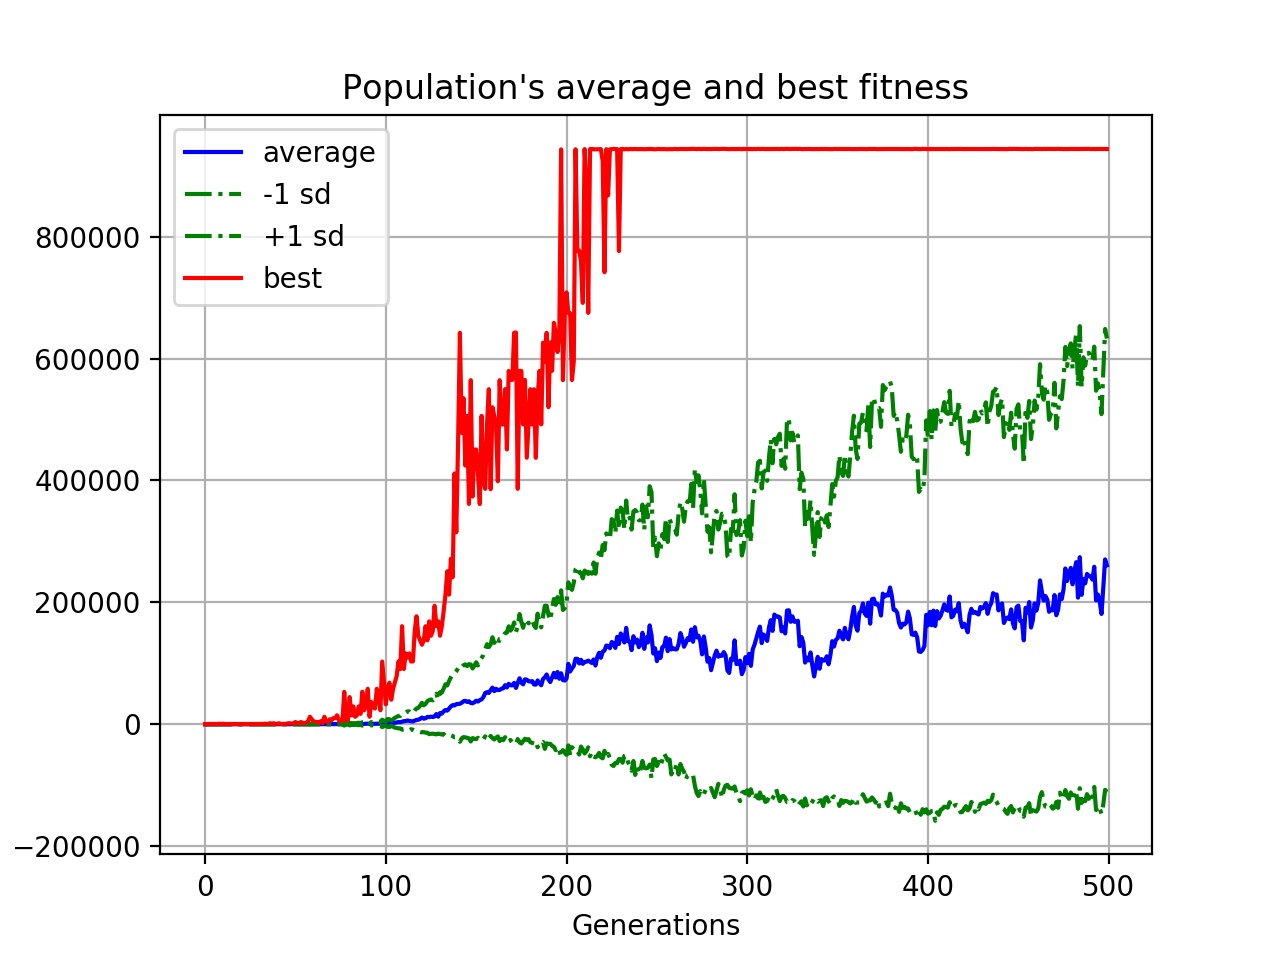
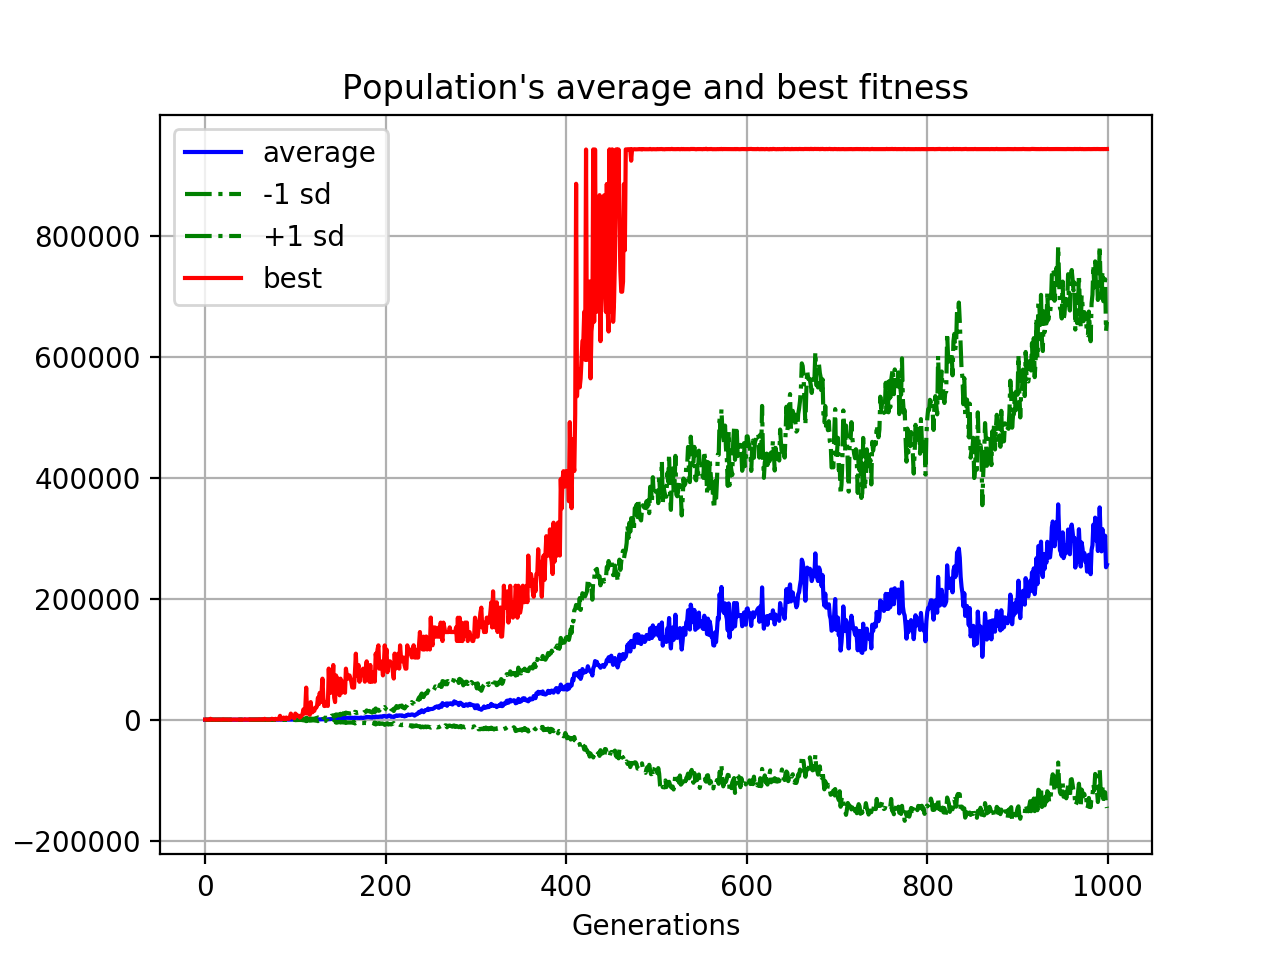
Moved food collision detection to end of loop

diff --git a/game.py b/game.py
@@ -62,7 +62,6 @@ def eval_genomes(genomes,config):
             input[direction] = 1
 
             # TAIL DIRECTION
-            tail_direction = -1
             body_len = len(snake_body)
             (tail_x,tail_y) = snake_body[body_len-1]
             (tail2_x,tail2_y) = snake_body[body_len-2]
@@ -122,21 +121,6 @@ def eval_genomes(genomes,config):
             output = net.activate(input)
             direction = output.index(max([i for i in output]))
 
-            # Spawn Food
-            if snake_body[0] == food:
-                hunger = max_hunger
-                eaten += 1
-                if len(snake_body) == 99:
-                    print("WINNER!!!")
-                    run = False
-                else:
-                    food = (random.randint(0,width/block_size - 1)*block_size,random.randint(0,width/block_size - 1)*block_size)
-                    while snake_body.count(food) > 0:
-                        food = (random.randint(0,width/block_size - 1)*block_size,random.randint(0,width/block_size - 1)*block_size)
-            else:
-                hunger -= 1
-                snake_body.pop() # Remove last block of snake to prepare for update
-
             # Update body
             if direction == 0:
                 snake_body.appendleft((snake_body[0][0],snake_body[0][1] + block_size))
@@ -157,6 +141,22 @@ def eval_genomes(genomes,config):
             if snake_body.count(snake_body[0]) > 1:
                 run = False
 
+            # Check if in Food
+            if snake_body[0] == food:
+                hunger = max_hunger
+                eaten += 1
+                if len(snake_body) == 100:
+                    print("WINNER!!!")
+                    run = False
+                else:
+                    food = (random.randint(0,width/block_size - 1)*block_size,random.randint(0,width/block_size - 1)*block_size)
+                    while snake_body.count(food) > 0:
+                        food = (random.randint(0,width/block_size - 1)*block_size,random.randint(0,width/block_size - 1)*block_size)
+            else: # If not spawn new food
+                hunger -= 1
+                snake_body.pop() # Remove last block of snake to prepare for update
+
+            # Check if dead
             if hunger <= 0:
                 run = False
 
@@ -168,8 +168,6 @@ def eval_genomes(genomes,config):
             all_time_max_fitness = genome.fitness
             seed_to_play = saved_seed
             genome_to_play = genome
-
-
 
     if play:
         folder_name = dir_save + '/generation' + str(counter)
@@ -209,9 +207,10 @@ if __name__ == "__main__":
     p.add_reporter(stats)
     p.add_reporter(neat.Checkpointer(100,filename_prefix = dir_save + '/neat-checkpoint-'))
 
-    winner = p.run(eval_genomes,500)
+    winner = p.run(eval_genomes,1000)
 
     with open(dir_save + '/winner-snake','wb') as f:
         pickle.dump(winner,f)
 
     visualize.plot_stats(stats, ylog=False, view=True)
+    visualize.plot_species(stats, view=True)

diff --git a/replay.py b/replay.py
@@ -8,7 +8,6 @@ import visualize
 import numpy as np
 import pickle
 from vision import *
-from game import direction_to_dxdy, look_direction
 from settings import *
 
 def play(genome,s = None):
@@ -65,7 +64,6 @@ def play(genome,s = None):
             input[direction] = 1
 
             # TAIL DIRECTION
-            tail_direction = -1
             body_len = len(snake_body)
             (tail_x,tail_y) = snake_body[body_len-1]
             (tail2_x,tail2_y) = snake_body[body_len-2]
@@ -125,20 +123,6 @@ def play(genome,s = None):
             output = winner_net.activate(input)
             direction = output.index(max([i for i in output]))
 
-            # Spawn Food
-            if snake_body[0] == food:
-                eaten += 1
-                hunger = max_hunger
-                if len(snake_body) == 99:
-                    run = False
-                else:
-                    food = (random.randint(0,width/block_size - 1)*block_size,random.randint(0,width/block_size - 1)*block_size)
-                    while snake_body.count(food) > 0:
-                        food = (random.randint(0,width/block_size - 1)*block_size,random.randint(0,width/block_size - 1)*block_size)
-            else:
-                hunger -= 1
-                snake_body.pop()
-
             # Update body
             if direction == 0:
                 snake_body.appendleft((snake_body[0][0],snake_body[0][1] + block_size))
@@ -158,6 +142,20 @@ def play(genome,s = None):
             # Check collision
             if snake_body.count(snake_body[0]) > 1:
                 run = False
+
+            # Spawn Food
+            if snake_body[0] == food:
+                eaten += 1
+                hunger = max_hunger
+                if len(snake_body) == 100:
+                    run = False
+                else:
+                    food = (random.randint(0,width/block_size - 1)*block_size,random.randint(0,width/block_size - 1)*block_size)
+                    while snake_body.count(food) > 0:
+                        food = (random.randint(0,width/block_size - 1)*block_size,random.randint(0,width/block_size - 1)*block_size)
+            else:
+                hunger -= 1
+                snake_body.pop()
 
             if hunger <= 0:
                 run = False

diff --git a/snake.py b/snake.py
@@ -10,3 +10,5 @@ class Snake:
         self.head = (random.randint(2,width/block_size - 3)*block_size,random.randint(2,height/block_size - 3)*block_size)
         self.body = collections.deque([self.head,(self.head[0]+block_size*-direction_to_dxdy(direction)[0],self.head[1]+block_size*-direction_to_dxdy(direction)[1]),(self.head[0]+block_size*2*-direction_to_dxdy(direction)[0],self.head[1]+block_size*2*-direction_to_dxdy(direction)[1])])
         self.hunger = max_hunger
+
+    def move(direction):

diff --git a/settings.py b/settings.py
@@ -2,9 +2,9 @@
 tick_rate = 1
 
 # World Dimensions
-width = 200
-height = 200
-block_size = 20
+width = 400
+height = 400
+block_size = 40
 
 # Visuals
 snake_color = (255,0,0)
